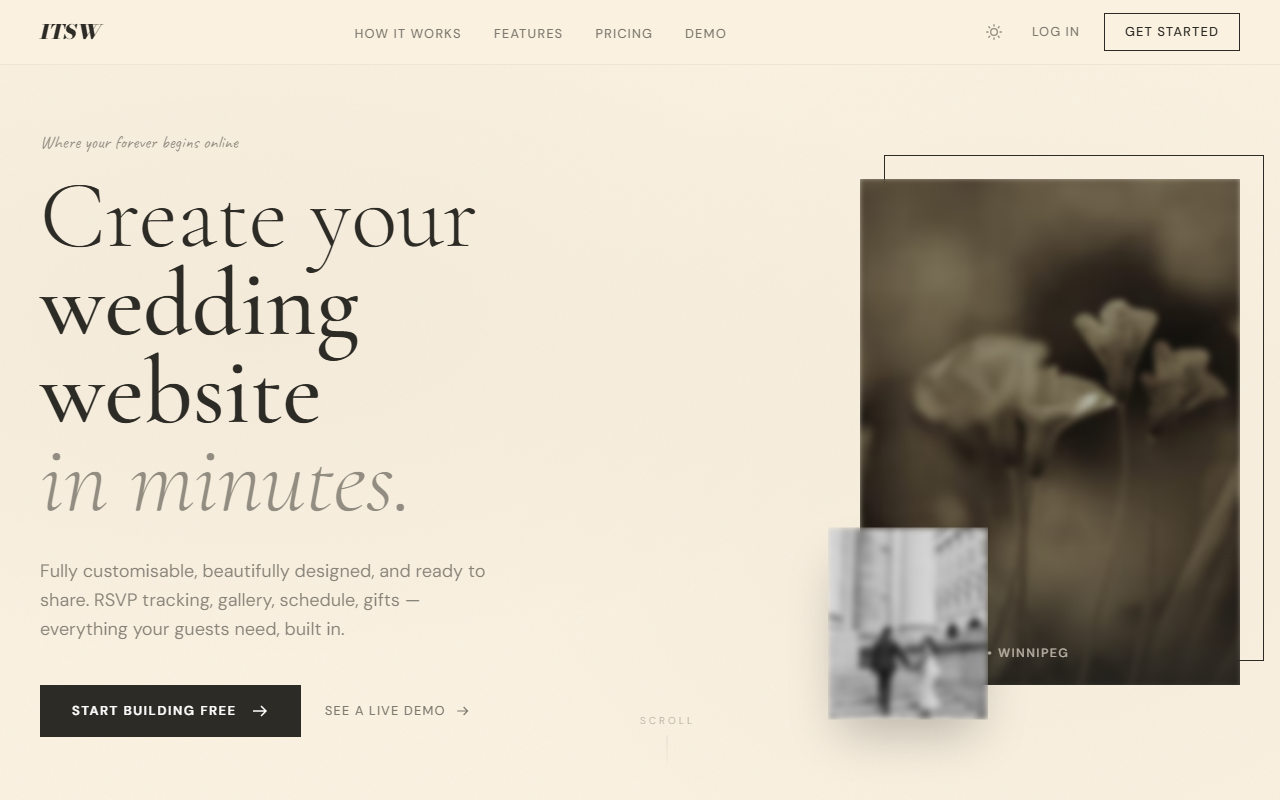
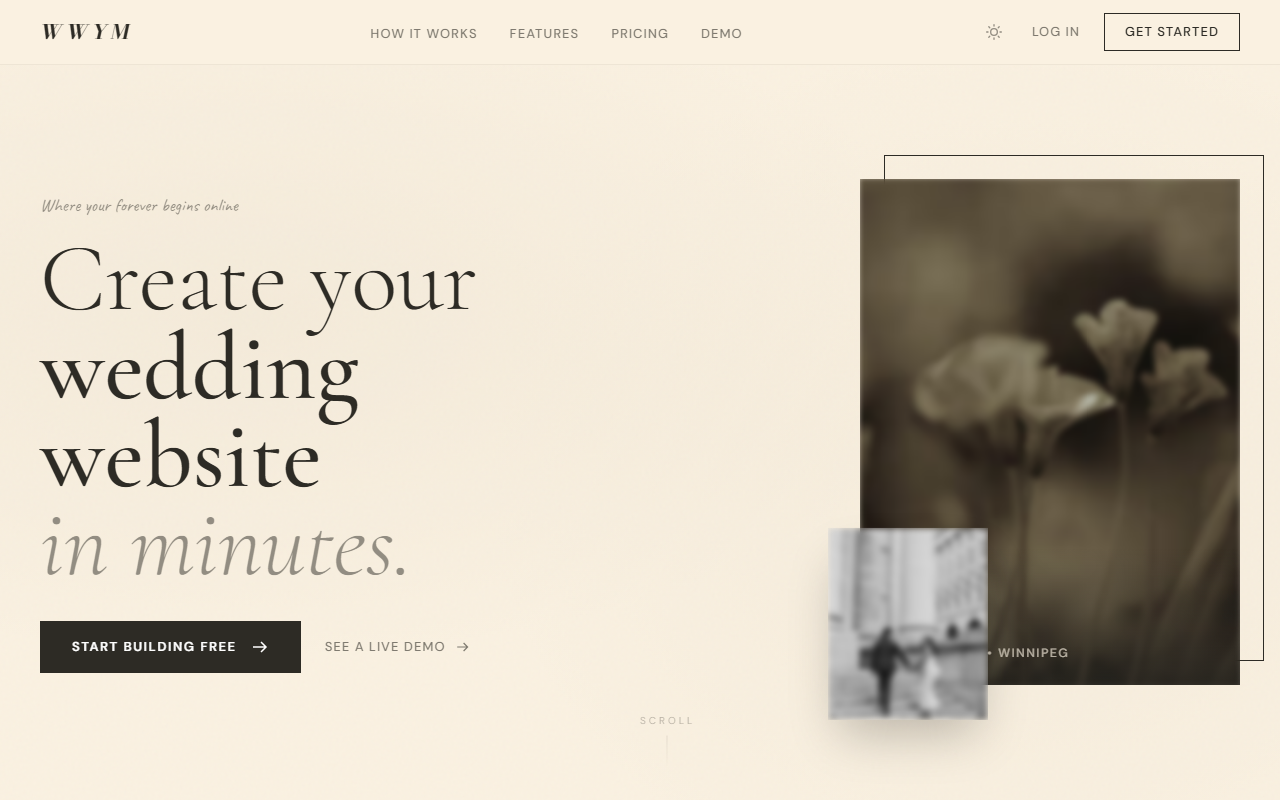
feat: rename wedding project to whenwillyoumarry.com and improve project link buttons
Update project name/URL from ithinkshewifey.com to whenwillyoumarry.com,
refresh screenshot, and restyle project links as polished button components
with hover animations.

diff --git a/src/components/Projects/Projects.jsx b/src/components/Projects/Projects.jsx
@@ -73,16 +73,20 @@ export default function Projects() {
                   <div className="flex flex-wrap gap-2 mb-8">
                     {project.tech.map((t) => <TechPill key={t} label={t} />)}
                   </div>
-                  <div className="flex gap-6">
+                  <div className="flex gap-4">
                     {project.links.map((link) => (
                       <a
                         key={link.label}
                         href={link.url}
                         target="_blank"
                         rel="noopener noreferrer"
-                        className="font-mono text-[11px] uppercase tracking-wider text-text-dim hover:text-accent transition-colors border-b border-border hover:border-accent pb-1"
+                        className="group/btn relative inline-flex items-center gap-2 px-5 py-2.5 font-mono text-[11px] uppercase tracking-[0.15em] text-text bg-transparent border border-border hover:border-accent hover:text-accent transition-all duration-300 overflow-hidden"
                       >
-                        {link.label} ↗
+                        <span className="absolute inset-0 bg-accent/5 translate-y-full group-hover/btn:translate-y-0 transition-transform duration-300" />
+                        <span className="relative">{link.label}</span>
+                        <svg className="relative w-3.5 h-3.5 transition-transform duration-300 group-hover/btn:translate-x-0.5 group-hover/btn:-translate-y-0.5" viewBox="0 0 14 14" fill="none" xmlns="http://www.w3.org/2000/svg">
+                          <path d="M3.5 10.5L10.5 3.5M10.5 3.5H5M10.5 3.5V9" stroke="currentColor" strokeWidth="1.2" strokeLinecap="round" strokeLinejoin="round"/>
+                        </svg>
                       </a>
                     ))}
                   </div>

diff --git a/src/data/content.js b/src/data/content.js
@@ -153,14 +153,14 @@ export const experience = [
 export const projects = [
   {
     number: "01",
-    name: "ithinkshewifey.com (ITSW)",
+    name: "whenwillyoumarry.com",
     type: "Wedding Website Platform",
     description:
       "A fully featured wedding website builder with RSVP management, gift registry, guest communication, and beautiful customisable templates.",
     tech: ["TypeScript", "Next.js", "React", "PostgreSQL", "AWS"],
     screenshot: "/screenshots/01.png",
     links: [
-      { label: "Live Site", url: "https://ithinkshewifey.com" },
+      { label: "Live Site", url: "https://whenwillyoumarry.com" },
     ],
   },
   {

diff --git a/scripts/screenshots.js b/scripts/screenshots.js
@@ -3,7 +3,7 @@ const fs = require("fs");
 const path = require("path");
 
 const PROJECTS = [
-  { number: "01", url: "https://ithinkshewifey.com" },
+  { number: "01", url: "https://whenwillyoumarry.com" },
   { number: "02", url: "https://gpflow-prod.up.railway.app/data/" },
 ];
 
